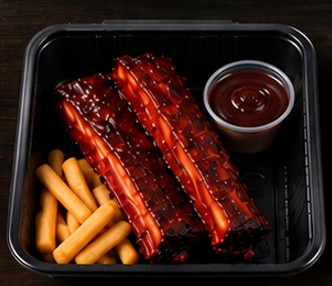
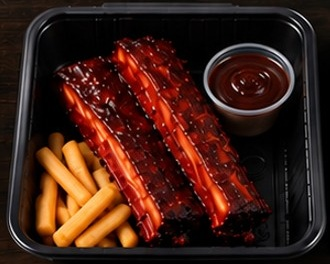
301 Smoke Series v1

diff --git a/app.py b/app.py
@@ -1,52 +1,271 @@
 import streamlit as st
 
-st.set_page_config(page_title="301 Smoke Series", layout="wide")
+# =====================================================
+# CONFIG
+# =====================================================
+st.set_page_config(
+    page_title="301 Smoke Series",
+    page_icon="🔥",
+    layout="centered"
+)
 
+# =====================================================
+# ESTADO
+# =====================================================
+PRECIOS = {
+    "explorer": 4900,
+    "pitmaster": 6900,
+    "half": 12900,
+    "full": 23900
+}
+
+for k in PRECIOS:
+    if k not in st.session_state:
+        st.session_state[k] = 0
+
+if "horario" not in st.session_state:
+    st.session_state.horario = "Sábado 1"
+
+def mas(k):
+    st.session_state[k] += 1
+
+def menos(k):
+    if st.session_state[k] > 0:
+        st.session_state[k] -= 1
+
+# =====================================================
+# CSS
+# =====================================================
 st.markdown("""
 <style>
-.stApp {background:#0B0B0B;}
-h1,h2,h3,p {color:white;}
+.stApp{
+    background:#090909;
+    overflow-x:hidden;
+}
+header{visibility:hidden;}
+
+.block-container{
+    max-width:430px;
+    padding:1rem 12px 2rem;
+}
+
+h1,h2,h3,h4,h5,h6,p{
+    color:white !important;
+}
+
 .banner{
-    background:#2B0000;
-    border:1px solid #D61F1F;
+    background:#250000;
+    border:1px solid #B1121B;
     border-radius:14px;
-    padding:16px;
+    padding:14px;
+    text-align:center;
+    margin-bottom:18px;
+    color:white;
+}
+
+.precio{
+    color:#B1121B;
+    text-align:center;
+    font-size:34px;
+    font-weight:800;
+    margin:8px 0 14px;
+}
+
+.qty{
+    height:56px;
+    width:100%;
+    background:#111;
+    border:1px solid #333;
+    border-radius:12px;
+    display:flex;
+    justify-content:center;
+    align-items:center;
+    color:white;
+    font-size:26px;
+    font-weight:700;
+}
+
+.stButton > button{
+    width:100%;
+    height:56px;
+    border:none;
+    border-radius:12px;
+    background:#C1121F;
+    color:white;
+    font-size:22px;
+    font-weight:700;
+    padding:0;
+    line-height:1;
+}
+
+.stButton > button:hover{
+    background:#981018;
+}
+
+.total{
+    background:#111;
+    border:1px solid #333;
+    border-radius:16px;
+    padding:18px;
+    text-align:center;
 }
 </style>
 """, unsafe_allow_html=True)
 
-# LOGO
-st.image("logo.png", width=280)
+# =====================================================
+# HEADER
+# =====================================================
+_, logo, _ = st.columns([1,2,1])
+
+with logo:
+    st.image("assets/logo.png", use_container_width=True)
 
 st.markdown("""
 <div class="banner">
-<h2>🔥 Quedan 15 espacios disponibles</h2>
-<p>Pedidos cierran los miércoles · Entrega sábado y domingo</p>
+🔥 Cerramos pedidos los miércoles<br>
+Entregas sábado y domingo
 </div>
 """, unsafe_allow_html=True)
 
-st.markdown("## 🍖 Elegí tus combos")
+st.markdown("## 🍖 Costillas Ahumadas")
 
-c1, c2 = st.columns(2)
+# =====================================================
+# TARJETA
+# =====================================================
+def tarjeta(nombre, desc, precio, imagen, key):
 
-with c1:
-    st.image("explorer.jpg", use_container_width=True)
-    st.write("### Explorer")
-    st.write("₡4.900")
-    st.number_input("Explorer", 0, 10, 0)
+    with st.container(border=True):
 
-    st.image("halfrack.jpg", use_container_width=True)
-    st.write("### ½ Rack BBQ")
-    st.write("₡12.900")
-    st.number_input("Half", 0, 10, 0)
+        st.image(imagen, use_container_width=True)
 
-with c2:
-    st.image("pitmaster.jpg", use_container_width=True)
-    st.write("### Pitmaster")
-    st.write("₡6.900")
-    st.number_input("Pit", 0, 10, 0)
+        st.markdown(
+            f"<h3 style='text-align:center'>{nombre}</h3>",
+            unsafe_allow_html=True
+        )
 
-    st.image("fullrack.jpg", use_container_width=True)
-    st.write("### Rack Entero")
-    st.write("₡23.900")
-    st.number_input("Full", 0, 10, 0)
+        st.markdown(
+            f"<p style='text-align:center'>{desc}</p>",
+            unsafe_allow_html=True
+        )
+
+        st.markdown(
+            f"<div class='precio'>₡ {precio:,}</div>",
+            unsafe_allow_html=True
+        )
+
+        # UNA SOLA FILA
+        c1, c2, c3 = st.columns([1,1.4,1], gap="small")
+
+        with c1:
+            st.button(
+                "➖",
+                key=f"menos_{key}",
+                on_click=menos,
+                args=(key,),
+                use_container_width=True
+            )
+
+        with c2:
+            st.markdown(
+                f"<div class='qty'>{st.session_state[key]}</div>",
+                unsafe_allow_html=True
+            )
+
+        with c3:
+            st.button(
+                "➕",
+                key=f"mas_{key}",
+                on_click=mas,
+                args=(key,),
+                use_container_width=True
+            )
+
+# =====================================================
+# COMBOS
+# =====================================================
+tarjeta(
+    "Explorer",
+    "2 ribs + 1 acompañamiento",
+    4900,
+    "assets/explorer.jpg",
+    "explorer"
+)
+
+st.write("")
+
+tarjeta(
+    "Pitmaster",
+    "3 ribs + 2 acompañamientos",
+    6900,
+    "assets/pitmaster.jpg",
+    "pitmaster"
+)
+
+st.write("")
+
+tarjeta(
+    "½ Rack BBQ",
+    "6–7 ribs + 3 acompañamientos",
+    12900,
+    "assets/halfrack.jpg",
+    "half"
+)
+
+st.write("")
+
+tarjeta(
+    "Rack Entero",
+    "12–14 ribs + 3 acompañamientos",
+    23900,
+    "assets/fullrack.jpg",
+    "full"
+)
+
+# =====================================================
+# HORARIOS
+# =====================================================
+st.markdown("---")
+st.markdown("## 📅 Horario de entrega")
+
+if st.button("🌞 SÁBADO 1 · 12:00–2:00 pm", use_container_width=True):
+    st.session_state.horario = "Sábado 1"
+
+if st.button("🌙 SÁBADO 2 · 6:00–8:00 pm", use_container_width=True):
+    st.session_state.horario = "Sábado 2"
+
+if st.button("☀ DOMINGO 1 · 12:00–2:00 pm", use_container_width=True):
+    st.session_state.horario = "Domingo 1"
+
+st.markdown(
+    f"<p style='text-align:center;color:#B1121B;font-weight:bold;font-size:18px'>Horario: {st.session_state.horario}</p>",
+    unsafe_allow_html=True
+)
+
+# =====================================================
+# TOTAL
+# =====================================================
+total = (
+    st.session_state.explorer * 4900 +
+    st.session_state.pitmaster * 6900 +
+    st.session_state.half * 12900 +
+    st.session_state.full * 23900
+)
+
+st.markdown("---")
+
+st.markdown(f"""
+<div class='total'>
+    <h3 style='color:white;margin:0'>TOTAL</h3>
+    <h1 style='color:#B1121B;font-size:48px;margin-top:8px'>
+        ₡ {total:,}
+    </h1>
+</div>
+""", unsafe_allow_html=True)
+
+st.write("")
+
+st.button(
+    "🔥 CONTINUAR PEDIDO",
+    use_container_width=True,
+    type="primary"
+)
